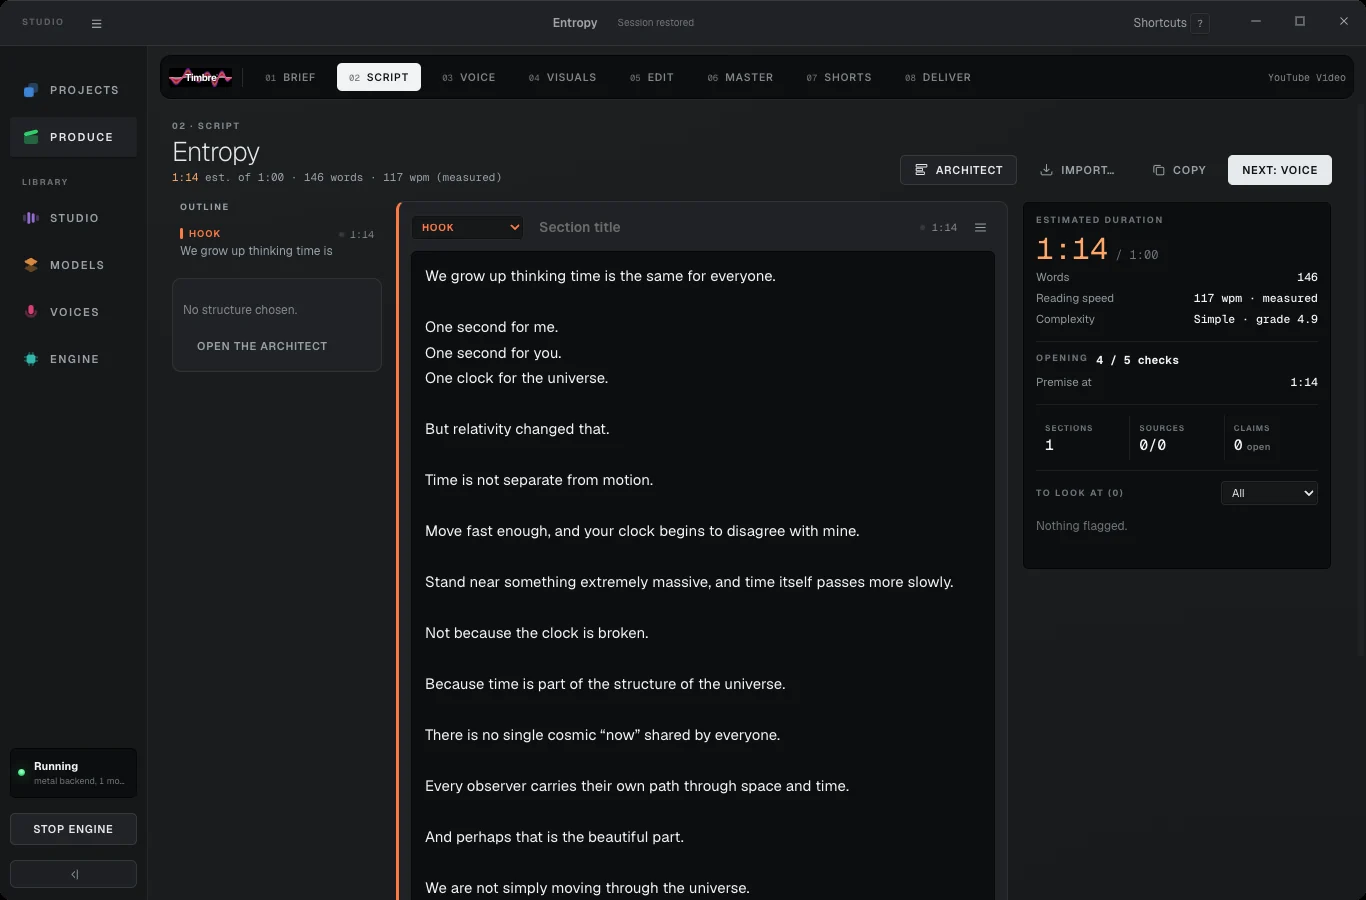
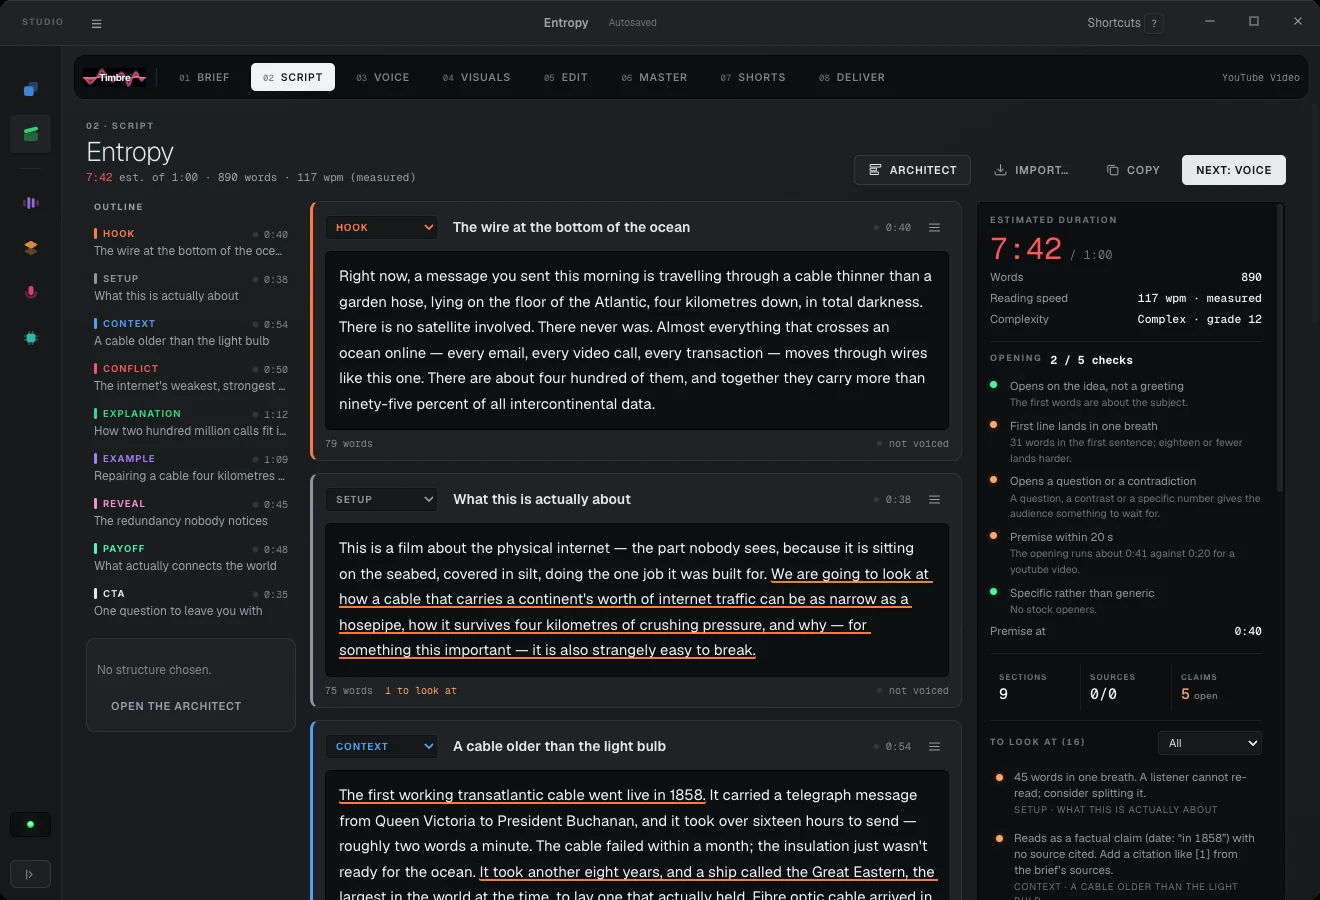
Richer screenshots: a real script, and Visuals paired with Edit
Script stage now shows a genuine nine-section documentary script with
Timbre's own pacing and claim checks visible, instead of a one-section
poem fragment. Visuals & Edit now shows both stages it covers -- the
auto-planned, categorised shot list next to the timeline it feeds.

diff --git a/index.html b/index.html
@@ -129,7 +129,7 @@
               </p>
             </div>
             <figure class="shot">
-              <img src="img/03-script.webp" alt="The Script stage: sections of copy with a live estimate of runtime." width="1366" height="900" loading="lazy" />
+              <img src="img/03-script.webp" alt="The Script stage: nine sections of a script with live word counts, a reading-speed estimate, and Timbre's own checks for pacing and unsourced claims." width="1320" height="900" loading="lazy" />
             </figure>
           </li>
 
@@ -149,7 +149,7 @@
             </figure>
           </li>
 
-          <li class="stage">
+          <li class="stage stage-pair">
             <div class="stage-text">
               <p class="num">04 · 05</p>
               <h3>Visuals &amp; Edit</h3>
@@ -160,9 +160,14 @@
                 shape of that duck on the timeline.
               </p>
             </div>
-            <figure class="shot">
-              <img src="img/05-edit.webp" alt="The Edit stage: multi-track timeline with video, narration and music." width="1366" height="900" loading="lazy" />
-            </figure>
+            <div class="shot-pair">
+              <figure class="shot">
+                <img src="img/visuals-shots.webp" alt="The Visuals stage: an auto-planned shot list, each shot categorised -- typography, stock, generated, diagram -- with the reasoning behind it and its own approve or reject control." width="1320" height="900" loading="lazy" />
+              </figure>
+              <figure class="shot">
+                <img src="img/05-edit.webp" alt="The Edit stage: multi-track timeline with video, narration and music." width="1366" height="900" loading="lazy" />
+              </figure>
+            </div>
           </li>
 
           <li class="stage">

diff --git a/style.css b/style.css
@@ -235,6 +235,24 @@ em { font-style: normal; color: var(--ink); }
 }
 .stage h3 { font-size: clamp(22px, 2.5vw, 28px); margin-bottom: 14px; }
 
+/* Visuals & Edit is the one stage that shows two screens, not one -- the
+   auto-planned shot list next to the timeline it feeds. It gets more of the
+   row's width than a single-screenshot stage does, or two app screenshots
+   side by side would be too small to read.
+
+   This is the 4th stage in the list, so the existing zigzag rule two
+   declarations up (`.stage:nth-child(even) .stage-text { order: 2; }`)
+   pushes its text to source-order 2 -- CSS Grid auto-placement sorts by
+   order before it assigns tracks, so `.shot-pair`, left at the default
+   order, is what actually lands in the *first* column here, not
+   `.stage-text`. The wide track has to be first for the same reason. */
+.stage-pair { grid-template-columns: minmax(0, 1.4fr) minmax(0, 0.6fr); }
+.shot-pair {
+  display: grid;
+  grid-template-columns: 1fr 1fr;
+  gap: 12px;
+}
+
 /* -------------------------------------------------------------- split */
 
 .split {
@@ -324,7 +342,9 @@ em { font-style: normal; color: var(--ink); }
 
 @media (max-width: 820px) {
   .stage,
+  .stage-pair,
   .split { grid-template-columns: 1fr; }
+  .shot-pair { grid-template-columns: 1fr; }
   .stage:nth-child(even) .stage-text,
   .split.reverse .split-text { order: 0; }
   .masthead img { max-height: 30vh; }
